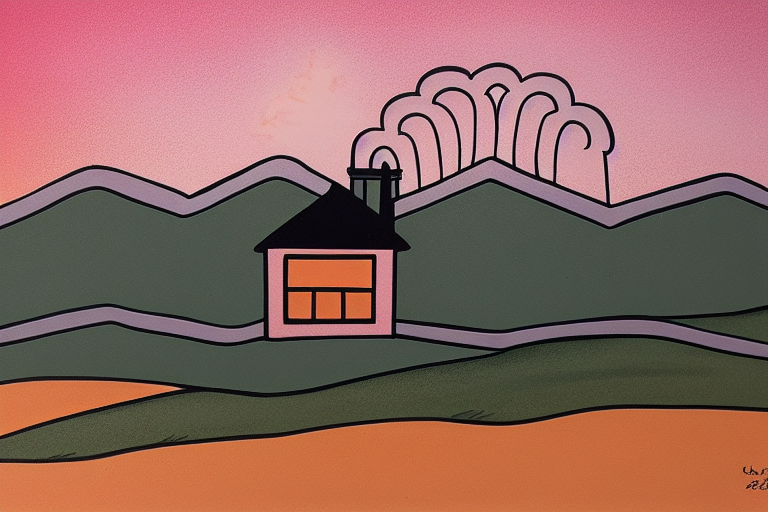
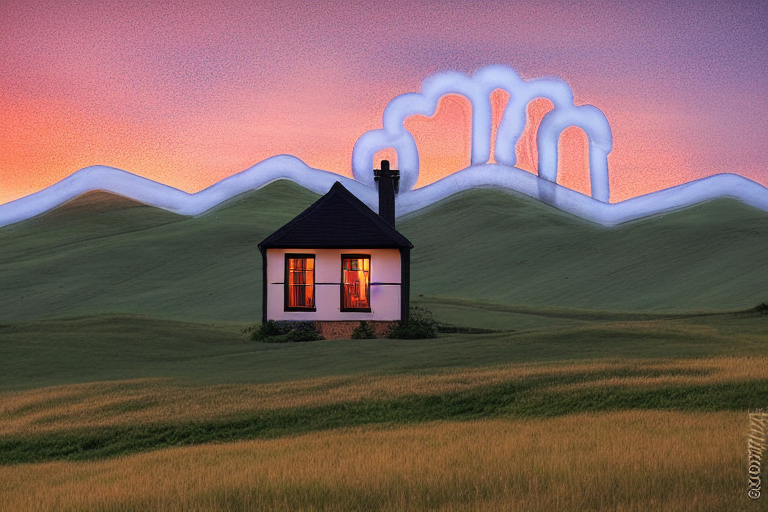
最新

diff --git a/sketch_cinemagraph_skeleton/src/pipeline.py b/sketch_cinemagraph_skeleton/src/pipeline.py
@@ -1,5 +1,8 @@
 from pathlib import Path
 
+import cv2
+import numpy as np
+
 from src.types import UserInput
 from src.scene_generation.generator import SceneGenerator
 from src.fluid_mask.semantic_mask import build_semantic_mask
@@ -19,16 +22,21 @@ from src.evaluation.metrics import (
 )
 
 
+def _resize_to_match(array, target_hw, is_mask=False):
+    """
+    Resize any image/mask to match target (height, width).
+    """
+    target_h, target_w = target_hw
+    if array.shape[:2] == (target_h, target_w):
+        return array
+
+    interp = cv2.INTER_NEAREST if is_mask else cv2.INTER_LINEAR
+    return cv2.resize(array, (target_w, target_h), interpolation=interp)
+
+
 class CinemagraphPipeline:
     """
     Simplified end-to-end pipeline for the course project.
-
-    Stages:
-    1. Scene generation
-    2. Fluid mask extraction
-    3. Motion field estimation
-    4. Cinemagraph synthesis
-    5. Basic evaluation
     """
 
     def __init__(self, cfg: dict) -> None:
@@ -62,9 +70,21 @@ class CinemagraphPipeline:
         }
 
     def _fluid_mask_extraction(self, user_input: UserInput, scene_out: dict) -> dict:
+        """
+        Build semantic / refined / final mask, all aligned to the scene image size.
+        """
+        h, w = scene_out["stylized_image"].shape[:2]
+
+        structural_sketch = _resize_to_match(
+            user_input.structural_sketch, (h, w), is_mask=False
+        )
+        motion_sketch = _resize_to_match(
+            user_input.motion_sketch, (h, w), is_mask=False
+        )
+
         semantic_mask = build_semantic_mask(
-            structural_sketch=user_input.structural_sketch,
-            motion_sketch=user_input.motion_sketch,
+            structural_sketch=structural_sketch,
+            motion_sketch=motion_sketch,
         )
 
         try:
@@ -76,6 +96,8 @@ class CinemagraphPipeline:
             print(f"[Warning] refine_fluid_mask failed, fallback to semantic mask only: {error}")
             refined_mask = semantic_mask.copy()
 
+        refined_mask = _resize_to_match(refined_mask, (h, w), is_mask=True)
+
         final_fluid_mask = combine_masks(
             semantic_mask=semantic_mask,
             refined_mask=refined_mask,
@@ -85,10 +107,16 @@ class CinemagraphPipeline:
             "semantic_mask": semantic_mask,
             "refined_mask": refined_mask,
             "final_fluid_mask": final_fluid_mask,
+            "resized_motion_sketch": motion_sketch,
         }
 
     def _motion_field_estimation(self, user_input: UserInput, mask_out: dict) -> dict:
-        strokes = parse_motion_sketch(user_input.motion_sketch)
+        """
+        Use the resized motion sketch so flow matches scene size.
+        """
+        motion_sketch = mask_out.get("resized_motion_sketch", user_input.motion_sketch)
+
+        strokes = parse_motion_sketch(motion_sketch)
 
         sparse_constraints = build_sparse_constraints(
             strokes=strokes,

diff --git a/sketch_cinemagraph_skeleton/src/scene_generation/diffusion_backend.py b/sketch_cinemagraph_skeleton/src/scene_generation/diffusion_backend.py
@@ -7,15 +7,15 @@ class DiffusionSceneBackend:
     def __init__(self, cfg: dict) -> None:
         self.model_id = cfg.get("model_id", "runwayml/stable-diffusion-v1-5")
         self.controlnet_id = cfg.get("controlnet_id", "lllyasviel/control_v11p_sd15_scribble")
-        self.num_inference_steps = int(cfg.get("num_inference_steps", 30))
-        self.guidance_scale = float(cfg.get("guidance_scale", 7.5))
-        self.controlnet_conditioning_scale = float(cfg.get("controlnet_conditioning_scale", 1.0))
+        self.num_inference_steps = int(cfg.get("num_inference_steps", 25))
+        self.guidance_scale = float(cfg.get("guidance_scale", 6.5))
+        self.controlnet_conditioning_scale = float(cfg.get("controlnet_conditioning_scale", 0.8))
         self.negative_prompt = cfg.get(
             "negative_prompt",
-            "low quality, blurry, distorted, extra objects, messy composition",
+            "low quality, blurry, distorted, repeated texture, mosaic pattern, extra objects, messy composition",
         )
         self.seed = int(cfg.get("seed", 42))
-        self.image_size = tuple(cfg.get("image_size", [512, 512]))
+        self.image_size = cfg.get("image_size", None)   # allow null
         self.enable_cpu_offload = bool(cfg.get("enable_cpu_offload", True))
 
         self._pipe = None
@@ -27,6 +27,8 @@ class DiffusionSceneBackend:
 
         generator = torch.Generator(device="cpu").manual_seed(self.seed)
 
+        width, height = control_image.size
+
         result = pipe(
             prompt=prompt,
             image=control_image,
@@ -35,8 +37,8 @@ class DiffusionSceneBackend:
             guidance_scale=self.guidance_scale,
             controlnet_conditioning_scale=self.controlnet_conditioning_scale,
             generator=generator,
-            height=self.image_size[1],
-            width=self.image_size[0],
+            height=height,
+            width=width,
         )
 
         return np.asarray(result.images[0].convert("RGB"))

diff --git a/sketch_cinemagraph_skeleton/src/scene_generation/generator.py b/sketch_cinemagraph_skeleton/src/scene_generation/generator.py
@@ -12,7 +12,7 @@ class SceneGenerator:
     def __init__(self, cfg: dict) -> None:
         self.cfg = cfg
         self.backend = cfg.get("backend", "placeholder")
-        self.image_size = tuple(cfg.get("image_size", [512, 512]))
+        self.image_size = cfg.get("image_size", None)   # allow null
         self.seed = int(cfg.get("seed", 42))
         self.save_reference = bool(cfg.get("save_reference", True))
 
@@ -57,6 +57,7 @@ class SceneGenerator:
 
     def preprocess_sketch(self, structural_sketch):
         array = np.asarray(structural_sketch)
+
         if array.ndim == 2:
             pil_image = Image.fromarray(array.astype(np.uint8)).convert("RGB")
         elif array.ndim == 3:
@@ -64,7 +65,16 @@ class SceneGenerator:
         else:
             raise ValueError("Structural sketch must be a 2D or 3D image array.")
 
-        pil_image = pil_image.resize(self.image_size, Image.Resampling.BILINEAR)
+        # If config provides image_size, use it.
+        # Otherwise inherit from input sketch and align to multiples of 8.
+        if self.image_size is not None:
+            target_w, target_h = self.image_size
+        else:
+            orig_w, orig_h = pil_image.size
+            target_w = _round_to_multiple_of_8(orig_w)
+            target_h = _round_to_multiple_of_8(orig_h)
+
+        pil_image = pil_image.resize((target_w, target_h), Image.Resampling.BILINEAR)
         return np.asarray(pil_image)
 
     def prepare_control_image(self, structural_sketch):
@@ -79,3 +89,7 @@ class SceneGenerator:
 
         pil_image = Image.fromarray(arr).convert("RGB")
         return pil_image
+
+
+def _round_to_multiple_of_8(value: int) -> int:
+    return max(8, int(round(value / 8.0)) * 8)
